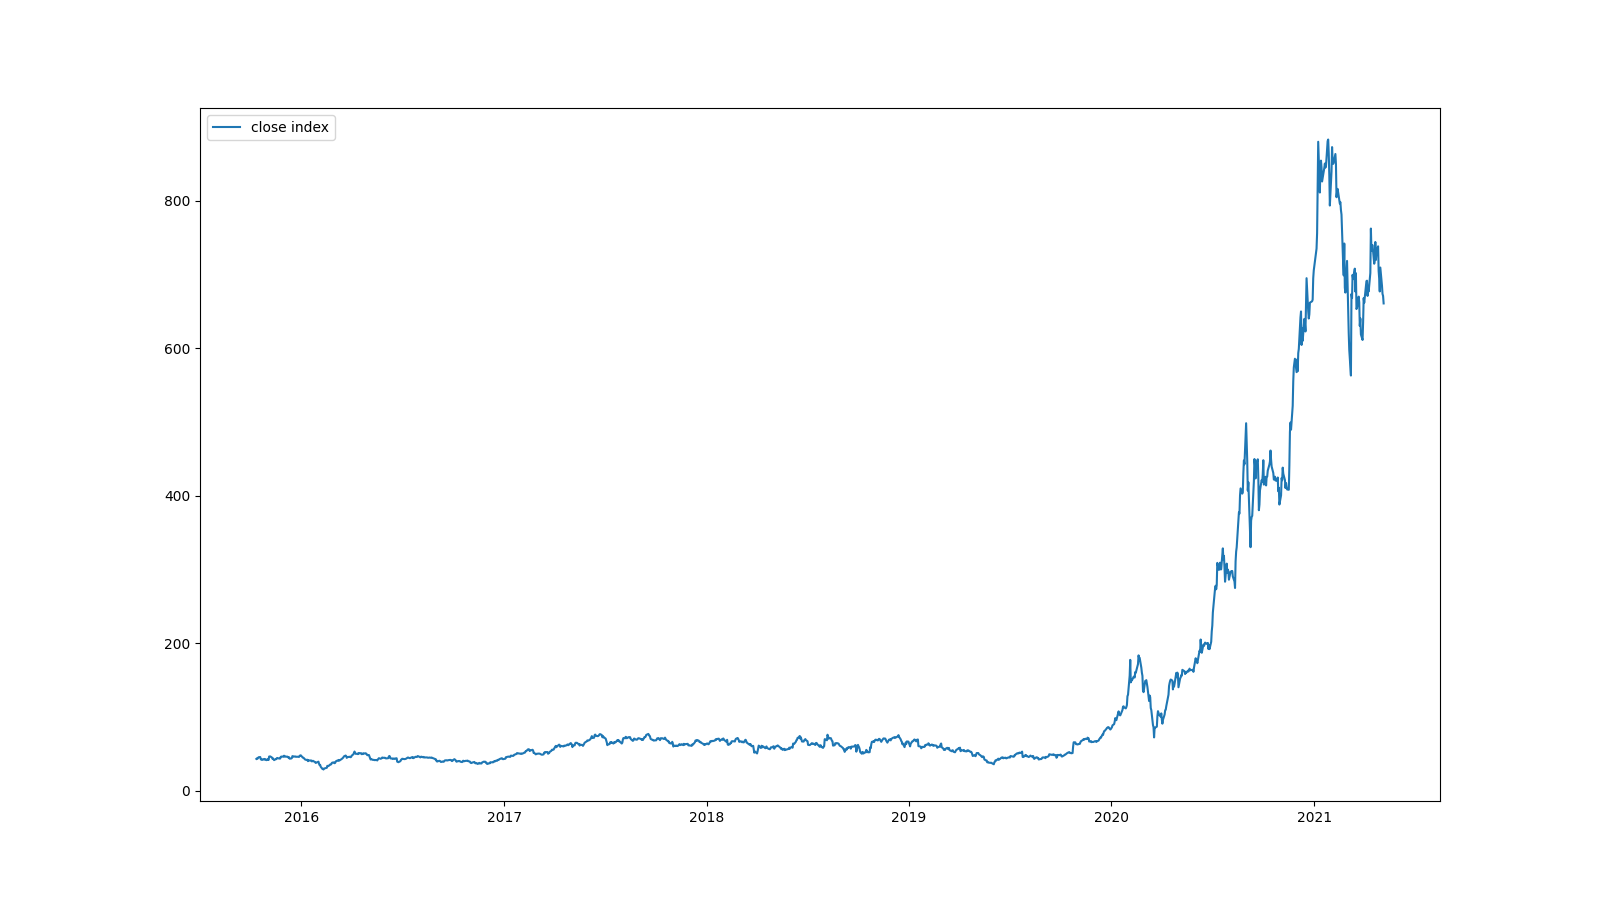
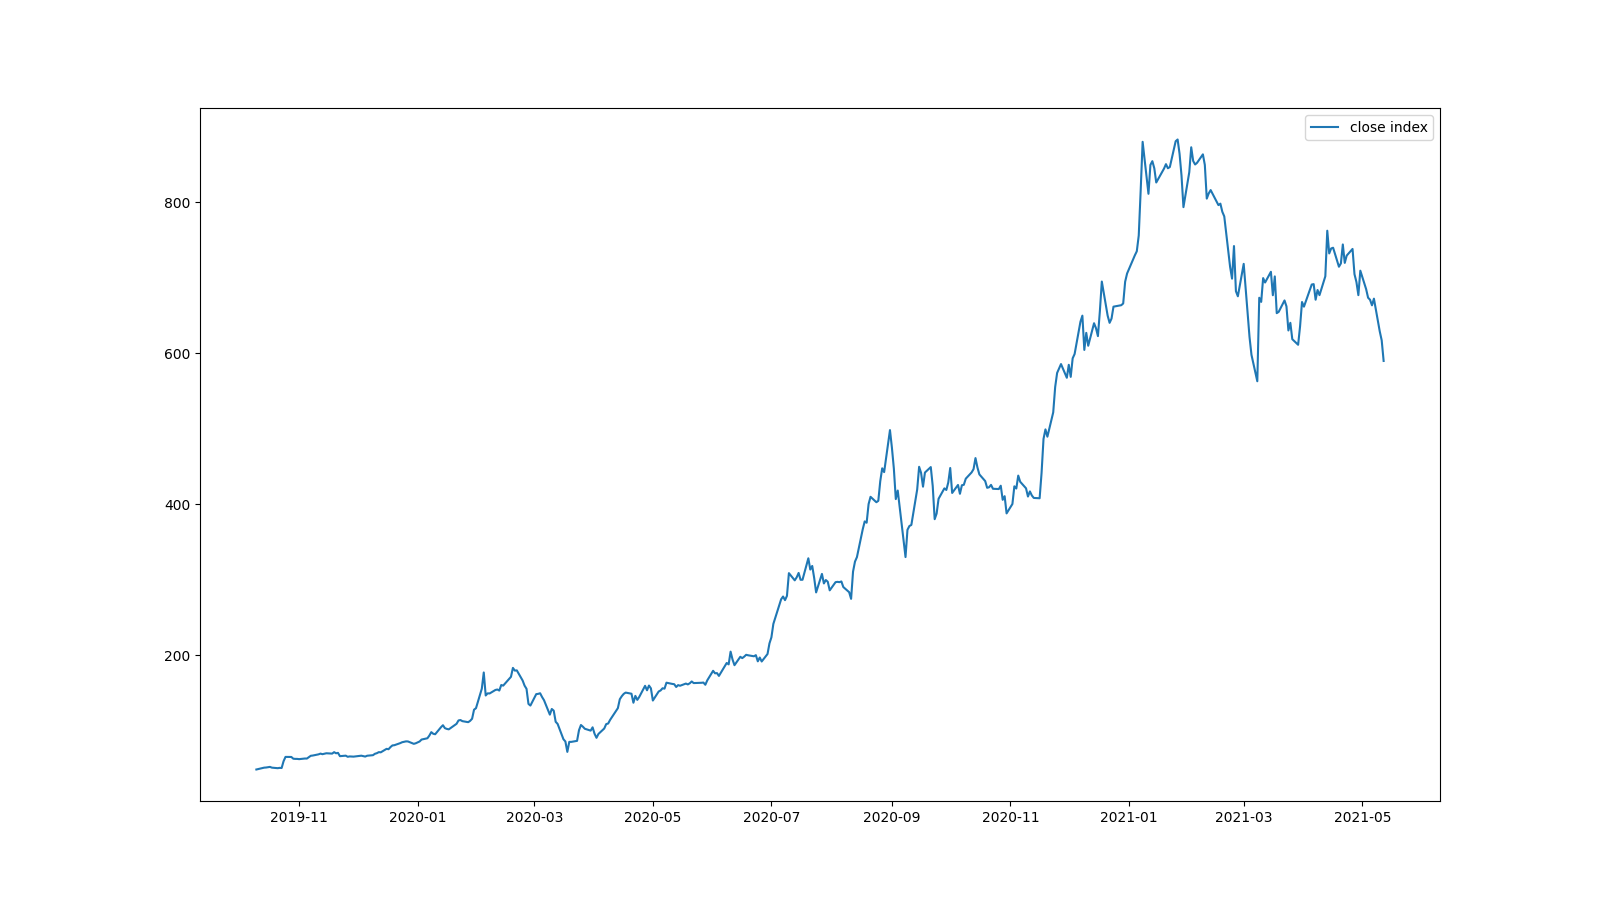
Homework for Lab 6 (finance) added - Made some endpoints to add/delete symbol tickers (saved them into tickers.txt) - Made an endpoint to retrieve info about the saved tickers: full name, number of employees, sector, website, current price - Made an endpoint to get the recommendations for a specific

diff --git a/finance/finance_router.py b/finance/finance_router.py
@@ -1,0 +1,204 @@
+import yfinance
+from fastapi import APIRouter
+from fastapi.responses import JSONResponse
+from fastapi.responses import FileResponse
+from datetime import date
+
+from matplotlib import pyplot
+
+router = APIRouter(prefix="/yfinance")
+
+
+# GET endpoint for info about every ticker added
+@router.get("/tickers")
+async def get_all_tickers():
+    with open("tickers.txt", "r") as tickers_file:
+        # getting all of the file's lines
+        file_lines = tickers_file.readlines()
+
+    # here we will store every dictionary
+    tickers_list = []
+
+    # taking each line one by one
+    for line in file_lines:
+        # readlines() includes the \n, so we format it, and it represents the ticker for the current object:
+        ticker = line.rstrip()
+
+        # getting ticker info from yfinance
+        ticker_info = yfinance.Ticker(ticker).info
+
+        ticker_map = {
+            "ticker": ticker,
+            "full_name": ticker_info["longName"],
+            "employees_number": ticker_info["fullTimeEmployees"],
+            "sector": ticker_info["sector"],
+            "website": ticker_info["website"],
+            "regular_market_price": ticker_info["regularMarketPrice"]
+        }
+
+        tickers_list.append(ticker_map)
+
+    return JSONResponse(status_code=200, content=tickers_list)
+
+
+# POST api endpoint for adding a ticker
+@router.post("/tickers/{ticker}")
+async def add_ticker(ticker: str):
+    # make sure the string given is all in uppercase letters, if not, make them upper
+    if ticker.isupper() is False:
+        ticker = ticker.upper()
+
+    # check if the added ticker is valid
+    ticker_info = yfinance.Ticker(ticker).info
+
+    if ticker_info['logo_url'] == '':
+        return JSONResponse(status_code=404, content="Invalid ticker")
+
+    # opening the tickers.txt file for appending (automatically create it if it doesn't exist)
+    with open("tickers.txt", "a+", encoding='utf-8') as tickers_file:
+        # set the pointer to the beginning, so we can check existing elements
+        tickers_file.seek(0)
+        file_lines = tickers_file.readlines()
+
+        # checking if the ticker already exists
+        for line in file_lines:
+            # readlines() includes the \n, so we treat it like that:
+            if line.rstrip() == ticker:
+                return JSONResponse(status_code=400, content="Ticker already exists!")
+
+        tickers_file.write("%s\n" % ticker)
+
+    return JSONResponse(status_code=200, content="Ticker added successfully!")
+
+
+# DELETE endpoint in order to delete an existent ticker
+@router.delete("/tickers/{ticker_wanted}")
+async def delete_ticker(ticker: str):
+    # make sure the string given is all in uppercase letters, if not, make them upper
+    if ticker.isupper() is False:
+        ticker_wanted = ticker.upper()
+    else:
+        ticker_wanted = ticker
+    # store the lines
+    try:
+        with open("tickers.txt", "r") as tickers_file:
+            file_lines = tickers_file.readlines()
+    except FileNotFoundError as exc:
+        return JSONResponse(status_code=404, content=str(exc))
+
+    deleted_something = 0
+
+    with open("tickers.txt", "w") as tickers_file:
+        for line in file_lines:
+            # readlines() includes the \n, so we treat it like that:
+            if line.rstrip() != ticker_wanted:
+                tickers_file.write(line)
+            else:
+                deleted_something = 1
+
+    if deleted_something == 1:
+        return JSONResponse(status_code=200, content="Ticker deleted")
+    else:
+        return JSONResponse(status_code=404, content="Ticker not found in file")
+
+
+# GET endpoint for recommendations for an existent ticker
+@router.get("/tickers/recommendation/{ticker}")
+async def get_recommendations(ticker: str):
+    # make sure the string given is all in uppercase letters, if not, make them upper
+    if ticker.isupper() is False:
+        ticker = ticker.upper()
+
+    ticker_exists = 0
+
+    # see if the ticker exists in our file
+    with open("tickers.txt", "r") as tickers_file:
+        # set the pointer to the beginning, so we can check existing elements
+        tickers_file.seek(0)
+        file_lines = tickers_file.readlines()
+
+        for line in file_lines:
+            # readlines() includes the \n, so we treat it like that:
+            if line.rstrip() == ticker:
+                ticker_exists = 1
+                break
+
+    if ticker_exists:
+        ticker_object = yfinance.Ticker(ticker)
+        recommendations = ticker_object.recommendations
+        # some tickers may not have recommendations of any kind and we have to treat this
+        try:
+            recommendations.items()
+        except AttributeError:
+            return JSONResponse(status_code=404, content="This ticker has no recommendations of any kind")
+
+        for item in recommendations.items():
+            if item[0] == "Firm":
+                firms = item[1].values.tolist()
+            if item[0] == "To Grade":
+                to_grade = item[1].values.tolist()
+
+        pretty_recommendations = list(map(lambda x, y: {x: y}, firms, to_grade))
+        print(pretty_recommendations)
+
+        return JSONResponse(status_code=200, content=pretty_recommendations)
+    else:
+        return JSONResponse(status_code=404, content="The given ticker isn't added, please add it for retrieving information.")
+
+
+# GET endpoint for a graph of the price (close index) between two dates for an existent ticker
+@router.get("/tickers/graph/{ticker}", status_code=200)
+async def get_ticker_graph(ticker: str, start: str, end: str = None):
+    # make sure the string given is all in uppercase letters, if not, make them upper
+    if ticker.isupper() is False:
+        ticker = ticker.upper()
+
+    ticker_exists = 0
+
+    # if end date doesn't exist, set it to today
+    if end is None:
+        end = date.today().strftime('%Y-%m-%d')
+
+    # see if the ticker exists in our file
+    with open("tickers.txt", "r") as tickers_file:
+        # set the pointer to the beginning, so we can check existing elements
+        tickers_file.seek(0)
+        file_lines = tickers_file.readlines()
+
+        for line in file_lines:
+            # readlines() includes the \n, so we treat it like that:
+            if line.rstrip() == ticker:
+                ticker_exists = 1
+                break
+
+    # validate the date
+    try:
+        start_date = date.fromisoformat(start)
+        end_date = date.fromisoformat(end)
+
+        if start_date > end_date:
+            return JSONResponse(status_code=400, content="Start date can't be older than end date")
+        if start_date > date.today() or end_date > date.today():
+            return JSONResponse(status_code=400, content="Dates cannot succeed today's date")
+
+    except ValueError:
+        return JSONResponse(status_code=400, content="Invalid data string")
+
+    if ticker_exists:
+        ticker_object = yfinance.Ticker(ticker)
+
+        history = ticker_object.history(start=start, end=end)
+
+        close = history["Close"]
+
+        figure, axis = pyplot.subplots(figsize=(16, 9))
+
+        # print(close.index)
+        axis.plot(close.index, close, label="close index")
+
+        axis.legend()
+        pyplot.savefig("plot.png")
+        return FileResponse("plot.png", media_type="image/png")
+
+    else:
+        return JSONResponse(status_code=404, content="The given ticker isn't added, please add it for retrieving information.")

diff --git a/main.py b/main.py
@@ -1,7 +1,7 @@
 # docker build . -t aclabs
 # docker run -td --name syneto-lab -v "D:\Diverse\3. Syneto\git\syneto-python-labs":/home/syneto_labs/ -p 8000:8000 aclabs
 # docker run -td --name syneto-lab -v "C:\Users\alexandru-b.serban\PycharmProjects\syneto-python-labs":/home/syneto_labs -p 8000:8000 aclabs
-# docker exec -it syneto-lab /bin/sh
+# docker exec -it syneto-lab /bin/bash
 # /root/.poetry/bin/poetry shell
 # /home/syneto_labs/lab4 # uvicorn fastAPI:app --host 0 --reload
 

diff --git a/finance/fastAPI.py b/finance/fastAPI.py
@@ -1,0 +1,6 @@
+from fastapi import FastAPI
+from finance_router import *
+
+app = FastAPI(title="Syneto Labs API - YFinance", version="0.1")
+# setting the router as the one in finance_router
+app.include_router(router)
